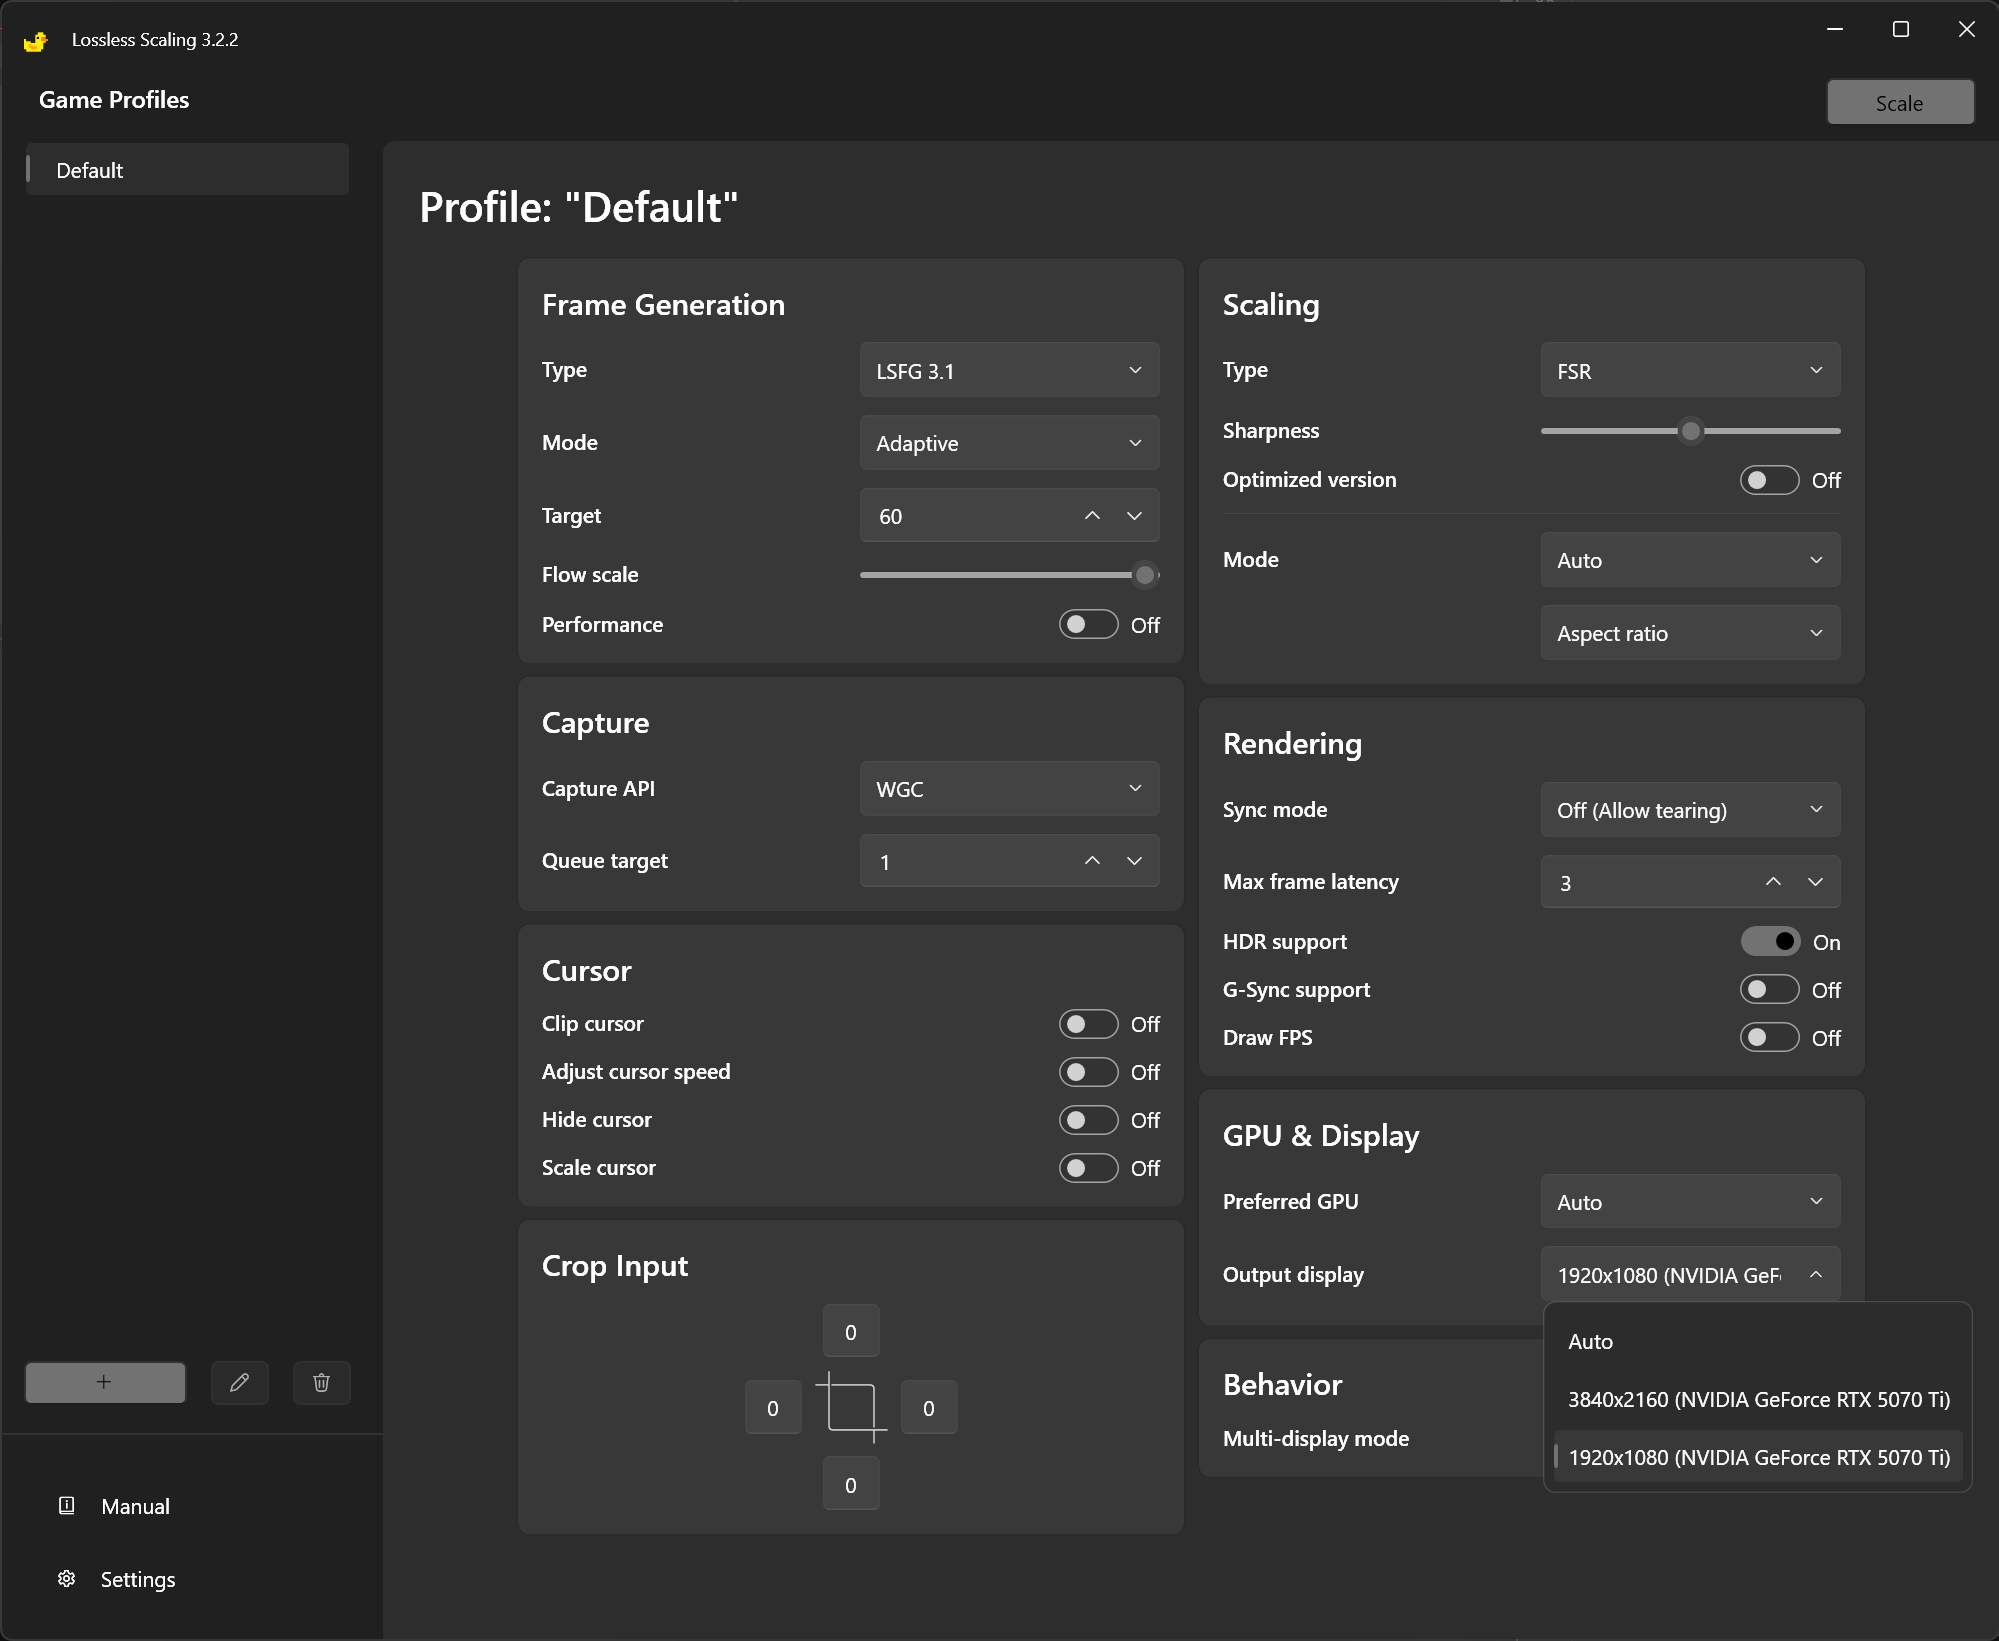
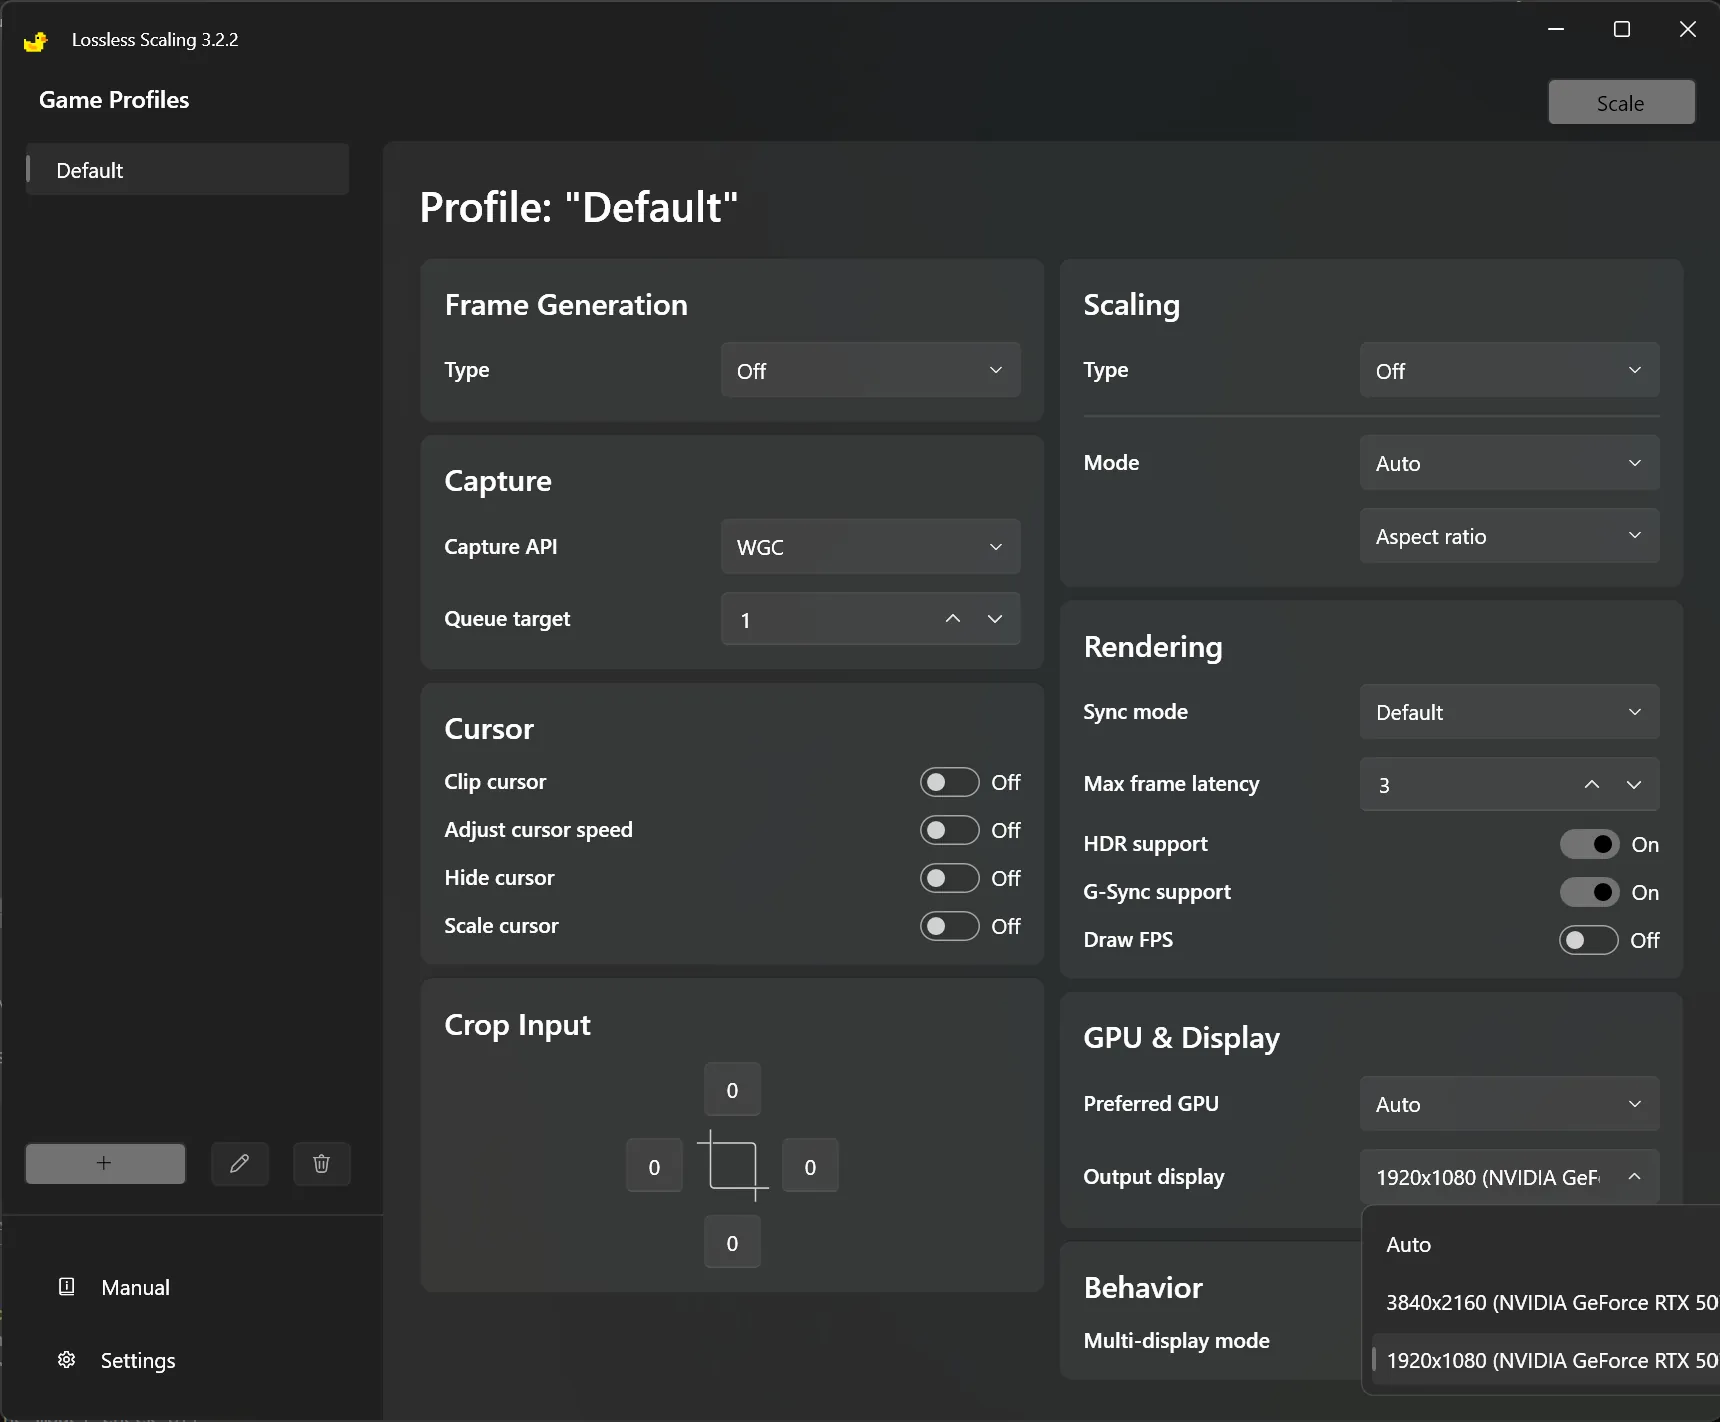
Update README and scripts for v0.0.6: Revise installation instructions, clarify NR Cost Scaler removal, and enhance script parameters. Update images for consistency and accuracy.

diff --git a/README.md b/README.md
@@ -8,9 +8,9 @@
 
 </div>
 
-> **Version v0.0.5** · The script asks in plain words and writes the keys LS needs by itself, including the add-on's new `HookMethod` key that left fresh installs without NR. Cost Scaler anamorphic and alternating-frames options, `-Scale`, a warning when RHI has put ReShade behind an ASI loader, and a [Known issues](#known-issues) section.
+> **Version v0.0.6** · One step and one tool less. The NR Cost Scaler is out of the setup: the add-on build from 2026-09-09 runs the model at a lower resolution itself, so `-Scale` is the single dial for FPS ([why](#nr-cost-scaler)). Had the Cost Scaler on before? **Reinstall** Neural Rendering in RHI to get rid of it. Lossless Scaling now runs with frame generation and scaling **off**: generated frames can come out warped and they multiply the neural work ([why](#ls-frame-generation)). Fresh RHI and LS screenshots.
 >
-> Last tested 2026-09-09 on an RTX 5070 Ti with Lossless Scaling 3.2.2, RHI 2.6.5, ReShade 6.8.0, RenoDX DLSS add-on build 2026-09-07T17:23:53, DLSS SR/RR/FG 310.9.0, NR DLL 310.8.SF-v2, NVIDIA driver 616.64.
+> Last tested 2026-09-09 on an RTX 5070 Ti with Lossless Scaling 3.2.2, RHI 2.6.8, ReShade 6.8.0, RenoDX DLSS add-on build 2026-09-09, DLSS SR/RR/FG 310.9.1, NR DLL 310.8.2, NVIDIA driver 616.64.
 
 Install the DLSS 5 Neural Rendering add-on (NR) once, into **Lossless Scaling** (LS), instead of into each game. Whatever LS captures gets NR. Game files are not touched.
 
@@ -70,9 +70,9 @@ NR makes the biggest difference on low-texture sources. On images that are alrea
 
 ## Install
 
-You need an **NVIDIA RTX 20 or newer** with driver 616.64 or later ([details](#which-gpus-work)), **[Lossless Scaling](https://store.steampowered.com/app/993090/)** from Steam, and **[RHI](https://github.com/RankFTW/RHI/releases)**.
+You need an **NVIDIA RTX 20 or newer** with driver 616.64 or later ([details](#which-gpus-work)), **[Lossless Scaling](https://store.steampowered.com/app/993090/)** from Steam, and **[RHI](https://github.com/RankFTW/RHI/releases)**, the installer that puts ReShade and the DLSS files in place for you.
 
-Four steps, each with a **Check** line. Reasons are in [Explained](#explained).
+Four steps, each with a **Check** line to confirm it worked. Step 2 is optional. Reasons are in [Explained](#explained).
 
 ### 1. RHI
 
@@ -81,20 +81,19 @@ Open RHI and find the **Lossless Scaling** card (*Browse* to the LS folder if it
 1. **Components** → *ReShade* → **Install**
 2. **Neural Rendering** → *Method* → **DLSS Tool (ShortFuse)**
 3. Gear next to **Remove** → **ShortFuse Settings** → *Auto-configure ReShade for FrameGen* **Off** → **Save** ([why](#auto-configure-reshade-for-framegen))
-4. **NR Cost Scaler** → **On** ([why](#nr-cost-scaler)). Locked because the add-on is already installed? **Remove** → switch on → **Reinstall**.
-5. **Neural Rendering** → **Install**
+4. **Neural Rendering** → **Install**
 
-Do not open LS yet; the first launch is in step 4.
+Do not open LS yet — the script starts it for the first time in step 4.
 
 ![RHI: ReShade and Neural Rendering for Lossless Scaling](images/rhi-install-ls.webp)
 
 ![RHI: ShortFuse Settings, Auto-configure ReShade for FrameGen turned off](images/rhi-turn-off-fix-framegen.webp)
 
-**Check:** RHI shows `✓ ReShade ✓ DLSS Tool (ShortFuse) ✓ DLSS SR ✓ DLSS RR ✓ DLSS FG ✓ NR DLL ✗ ASI Loader` and *Installed* on the NR Cost Scaler row. The LS folder has `dxgi.dll`, `ReShade.ini`, `renodx-dlss.addon64`, `nvngx_dlssnr.ini`.
+**Check:** RHI shows `✓ ReShade ✓ DLSS Tool (ShortFuse) ✓ DLSS SR ✓ DLSS RR ✓ DLSS FG ✓ NR DLL ✗ ASI Loader`, and *NR Cost Scaler* stays **Off**. The LS folder has `dxgi.dll`, `ReShade.ini`, `renodx-dlss.addon64`, `nvngx_dlssnr.dll`.
 
-### 2. LosslessProxy + LSP-Windowed
+### 2. LosslessProxy + LSP-Windowed — only for windows
 
-Two unofficial add-ons that let LS capture windows ([details](#losslessproxy-and-lsp-windowed)). Download only from these two pages. LS must be closed.
+Skip this if you play fullscreen games: LS captures those on its own. These two unofficial add-ons are what let it capture a *window* — browsers, emulators, mobile-game players, windowed games ([details](#losslessproxy-and-lsp-windowed)). Download only from these two pages, and close LS first.
 
 1. [LosslessProxy releases](https://github.com/FrankBarretta/LosslessProxy/releases): in the LS folder rename `Lossless.dll` to `Lossless_original.dll`, then copy the downloaded `Lossless.dll` in.
 2. [LSP-Windowed releases](https://github.com/FrankBarretta/LSP-Windowed/releases): extract `LSP-Windowed.zip` into `addons\LSP-Windowed\` inside the LS folder.
@@ -111,7 +110,7 @@ Or **Code › Download ZIP** and extract it anywhere.
 
 ### 4. Run the script
 
-In PowerShell, in the repo folder:
+In PowerShell, from the repo folder (in Explorer: right-click the folder → *Open in Terminal*):
 
 ```powershell
 .\scripts\nr-config.ps1
@@ -128,11 +127,7 @@ With parameters it asks nothing. `-Launch` starts LS afterwards.
 | `-On` / `-Off` | NR add-on on or off. |
 | `-Model A\|B\|C` | NR model. |
 | `-PassCount n` | NR passes per frame, 1 to 10. |
-| `-Scale n` | The add-on's own resolution scale, percent. 100 = off. Use it or the Cost Scaler, not both. |
-| `-CostScaler on\|off` | NR Cost Scaler on or off. |
-| `-CostScale x` | Cost Scaler resolution, 0.25 to 1.00. |
-| `-CostScaleX x` `-CostScaleY y` | Cost Scaler anamorphic resolution, 0.25 to 1.00 each. The tool's presets: 0.65/0.85, 0.50/0.75, 0.80/0.90. |
-| `-Alternating on\|off` | Cost Scaler runs NR on every other frame. |
+| `-Scale n` | Resolution the model runs at, percent of the frame. Lower is faster, 100 = original. The FPS dial. |
 | `-Intensity x` | Effect strength, 0 to 1. |
 | `-AutoMask 0\|1` | Character mask off or on. |
 | `-GlobalTone x` `-LocalTone x` | Tone strength, 0 to 1. |
@@ -161,10 +156,9 @@ With parameters it asks nothing. `-Launch` starts LS afterwards.
 
 - **Start LS:** `.\scripts\nr-config.ps1 -Launch`, not Steam ([why](#the-disablehwacceleration-key)). Shortcut target for one click: `powershell -ExecutionPolicy Bypass -File "<repo>\scripts\nr-config.ps1" -Launch`.
 - **Before and after:** toggle Scale, or `-Off -Launch` then `-On -Launch`.
-- **Tune:** close LS, run the script, start LS again. Good start: Model C, Intensity 0.6–0.7, Cost Scaler 0.75.
-- **Cost Scaler hotkeys while scaling:** `Ctrl+Alt+Space` on/off, `Ctrl+Alt+PgUp` / `PgDn` resolution, `Ctrl+Alt+End` reconstruction mode.
+- **Tune:** close LS, run the script, start LS again. Good start: Model C, 1 pass, Intensity 0.6–0.7, Scale 75.
 - **Update:** RHI → **Reinstall** the rows with a new version, then `-Show` to check the setup survived ([known issues](#known-issues)).
-- **Remove:** RHI → NR Cost Scaler off → **Remove** on Neural Rendering → **✕** on ReShade. In the LS folder delete the proxy `Lossless.dll`, rename `Lossless_original.dll` back, delete `addons\LSP-Windowed`.
+- **Remove:** RHI → **Remove** on Neural Rendering → **✕** on ReShade. In the LS folder delete the proxy `Lossless.dll`, rename `Lossless_original.dll` back, delete `addons\LSP-Windowed`.
 
 **LS settings** that worked in testing. Pick your profile in LS and match the screenshot.
 
@@ -172,10 +166,10 @@ With parameters it asks nothing. `-Launch` starts LS afterwards.
 
 | Section | Setting |
 |---|---|
-| Frame Generation | LSFG 3.1, Mode **Adaptive**, Target **60**, Flow scale max, Performance off ([limits](#ls-frame-generation)) |
-| Scaling | Type **FSR**, Mode **Auto**, Sharpness middle, Optimized version off |
+| Frame Generation | Type **Off** ([why](#ls-frame-generation)) |
+| Scaling | Type **Off** — here LS only captures and presents. Turn it on only if you want LS to upscale as well |
 | Capture | API **WGC**, Queue target **1** |
-| Rendering | Sync **Off (Allow tearing)**, Max frame latency **3**, HDR support on |
+| Rendering | Sync mode **Default**, Max frame latency **3**, HDR support on, G-Sync on, Draw FPS off |
 | GPU & Display | Preferred GPU **Auto**, or the NVIDIA card if you have several. Output display: the monitor and resolution you play on |
 
 ---
@@ -183,9 +177,9 @@ With parameters it asks nothing. `-Launch` starts LS afterwards.
 ## Known issues
 
 - **LS can freeze the whole screen when scaling stops.** Unscaling (`Ctrl+Alt+S`) or LS stopping because the game lost focus destroys LS's swapchain while the add-on still uses GPU resources. Outcomes range from LS closing to a GPU fault that needs a hard reset (RTX 5070 Ti, driver 616.64, Application log event *nvlddmkm* 13). The fault is in the add-on's teardown and has been reported. Avoid it: scale once for the whole session, keep the game in front, quit the game before closing LS.
-- **NR pays per output frame.** Two passes cost twice, LS frame generation multiplies the work, 4K is about four times 1080p. Roughly 20 ms per pass at 4K on an RTX 5070 Ti; the Cost Scaler brings that down ([why](#ls-frame-generation)).
+- **NR pays per output frame.** Two passes cost twice, frame generation would multiply the work, 4K is about four times 1080p. Roughly 20 ms per pass at 4K on an RTX 5070 Ti; `-Scale` brings that down ([why](#ls-frame-generation)).
 - **The first Scale can take a minute** while the driver asks NVIDIA's servers for models. `-Ota off`.
-- **RHI reinstalls can undo the setup.** *Auto-configure ReShade for FrameGen* can come back on, and installing the add-on after the Cost Scaler overwrites the Cost Scaler's DLL. After any RHI action run `-Show`: a warning is the first case, an empty Cost Scaler row is the second (switch NR Cost Scaler off and on in RHI).
+- **RHI reinstalls can undo the setup.** *Auto-configure ReShade for FrameGen* can come back on. Run `-Show` after any RHI action; the script warns and writes the keys again.
 
 ---
 
@@ -199,7 +193,7 @@ With parameters it asks nothing. `-Launch` starts LS afterwards.
 | LS crashes on start, or the LS window itself gets NR | LS was started without the script. `reg query "HKCU\SOFTWARE\Microsoft\Avalon.Graphics"` should show `DisableHWAcceleration 0x1`. Close LS, `-Launch`. |
 | Defender flags `RHI\downloads\…\shaders_DLSS5Feeder.zip` | RHI downloads the DLSS5 Feeder package on its own. This setup does not use it. |
 | PowerShell: *running scripts is disabled* or *not digitally signed* | `powershell -ExecutionPolicy Bypass -File .\scripts\nr-config.ps1`. From a ZIP: right-click the script → Properties → **Unblock**. |
-| Low FPS | Cost Scaler on, `-CostScale 0.67` or lower. LS Frame Generation and Scaling on as in the table. Then lower the output resolution. |
+| Low FPS | `-Scale 75`, then lower. One pass. Then lower the output resolution in LS (GPU & Display → Output display). |
 
 Still stuck? Open an issue with `ReShade.log`, GPU and driver, LS version, and RHI's **Copy Report**.
 
@@ -216,7 +210,7 @@ flowchart LR
     SRC["Game · video · any window"] -->|"LS captures"| UP
     subgraph LS["Lossless Scaling"]
         direction LR
-        UP["Upscale"] --> FG["LSFG"] --> PR["Present"]
+        UP["Upscale<br/>(off here)"] --> FG["LSFG<br/>(off here)"] --> PR["Present"]
         PR --> NR["DLSS add-on<br/>nvngx_dlssnr every frame"]
     end
     NR --> OUT["Display"]
@@ -238,7 +232,7 @@ Meant for games with DLSS Frame Generation: it renames ReShade to `Reshade64.asi
 
 #### NR Cost Scaler
 
-[DLSSNR-Cost-Scaler](https://github.com/xenmods/DLSSNR-Cost-Scaler) by xenmods sits between the add-on and the NR runtime, runs the model at a lower resolution, and puts the neural detail back onto the full-resolution frame. Settings live in `nvngx_dlssnr.ini`; the script drives them with `-CostScaler`, `-CostScale`, `-CostScaleX/Y`, `-Alternating`. The add-on's own `-Scale` does the same job; use one of the two.
+Leave it **off**. [DLSSNR-Cost-Scaler](https://github.com/xenmods/DLSSNR-Cost-Scaler) by xenmods ran the model at a lower resolution back when the add-on could not — the trick that made NR affordable. The 2026-09-09 add-on build has it built in (`DirectNeuralRenderingProcessingScale`, the script's `-Scale`), so a second scaler would only scale the same frame twice. If you switched it on in an earlier setup, remove it: RHI → *NR Cost Scaler* **Off** → **Reinstall** on Neural Rendering, which puts the original `nvngx_dlssnr.dll` back. The script ignores it either way.
 
 #### LosslessProxy and LSP-Windowed
 
@@ -250,7 +244,7 @@ LS's own window is WPF, which draws through D3D, so NR would process the setting
 
 #### LS Frame Generation
 
-NR runs on every frame LS outputs, generated frames included. Frame generation therefore multiplies the NR work instead of adding free frames, and the NR cost per frame caps the output FPS. It still helps a little, so the settings table keeps it on.
+Keep it off. NR runs on every frame LS outputs, generated frames included, so frame generation multiplies the neural work instead of adding cheap frames, and the NR cost per frame caps the output FPS anyway. With NR in the present path the generated frames can also come out visibly warped.
 
 ### Limitations
 
